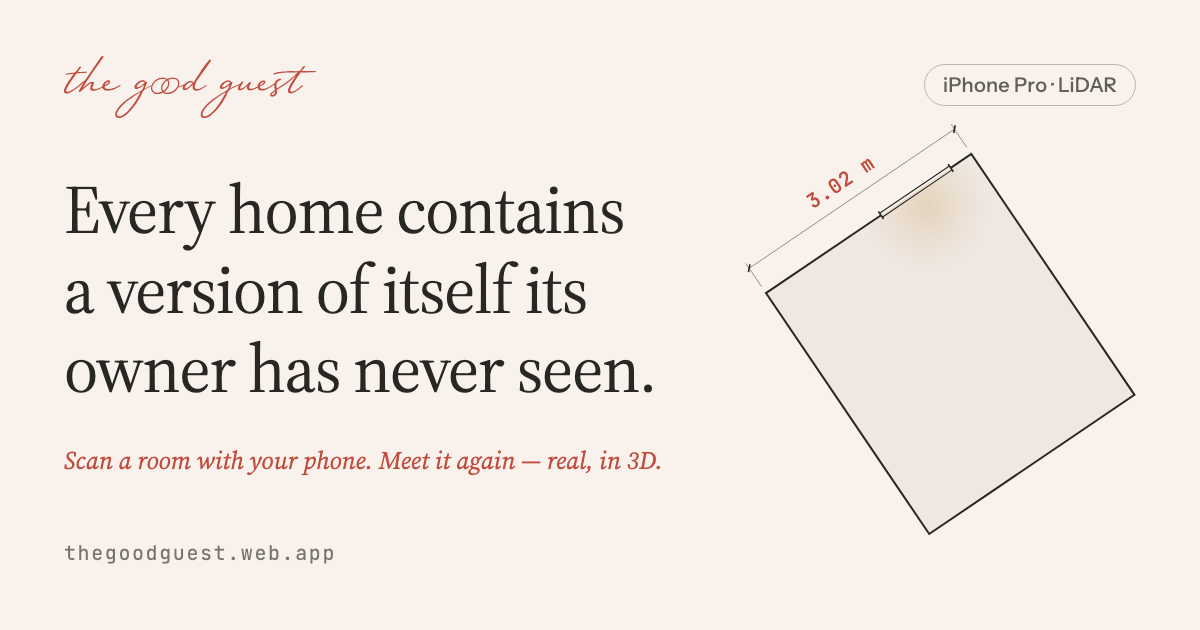
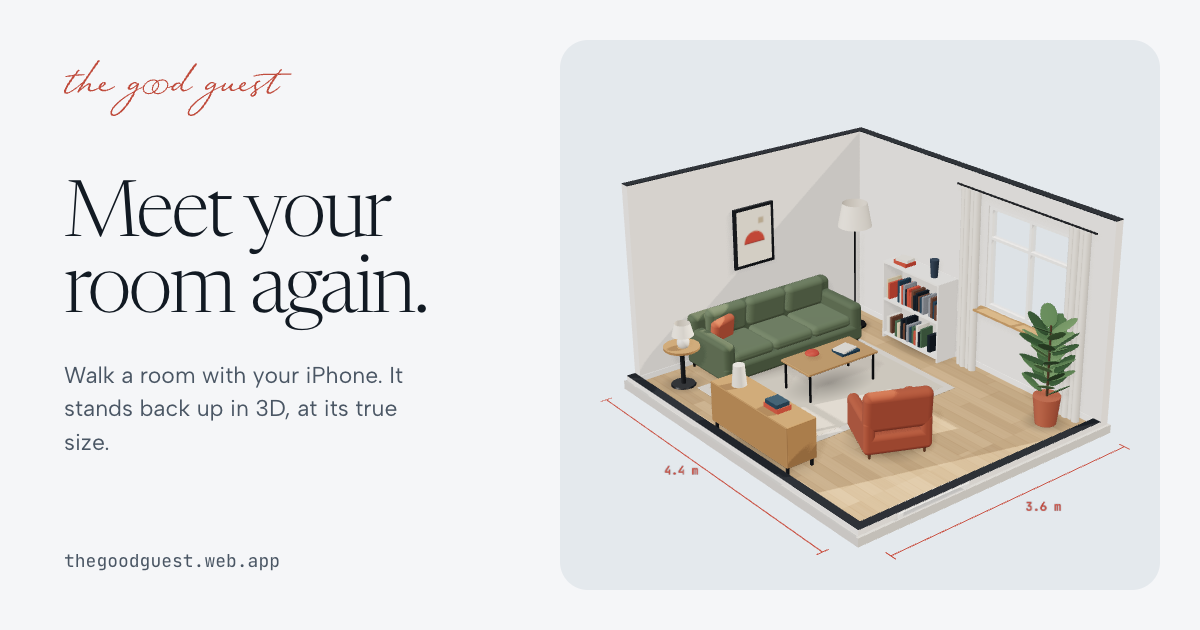
web: the share image is drawn by the site, around the landing's sample room
The link preview was still the cream card: "iPhone Pro · LiDAR" (the app
is for every iPhone) and "3.02 m" (sizes print to one decimal). It is now
drawn by /share-card with the landing's own sample room, wordmark and
faces, and exported from there by headless Chrome (the command is in the
page's header). The page is inert unless NEXT_PUBLIC_SHARE_CARD=1, as
/shell-finish is, so production shows the not-found page there.

docs/product/og-card.html stays untouched apart from its header, which now
says it is no longer the image's source: measure.test.ts reproduces its
hand-placed plan and test_gen_mark.py checks its wordmark.

diff --git a/web/src/app/share-card/page.tsx b/web/src/app/share-card/page.tsx
@@ -1,0 +1,70 @@
+"use client";
+
+/**
+ * The share image: web/public/og-card.png, the 1200×630 picture a link to
+ * the site unfurls into (decision 0361). The site draws it itself, with the
+ * landing's own sample room, wordmark and faces, so the picture people see
+ * before they arrive is the site they arrive at. It replaced the hand-drawn
+ * docs/product/og-card.html, which stays as the precedent the card
+ * geometry tests reproduce.
+ *
+ * What it may say: the landing's own claim, and the true hosting URL
+ * (lib/card/layout's DOMAIN — not the product name). The room is the sample,
+ * never a person's, and its sizes print to one decimal like every other
+ * measurement the product shows.
+ *
+ * Inert unless NEXT_PUBLIC_SHARE_CARD=1, like /shell-finish: a production
+ * build leaves it unset, and the page is then the ordinary not-found page.
+ *
+ * Re-export (exactly 1200×630), then rebuild without the flag:
+ *
+ *   NEXT_PUBLIC_SHARE_CARD=1 npm --prefix web run build
+ *   npx --yes serve web/out -l 3210        # clean URLs, as hosting serves them
+ *   "/Applications/Google Chrome.app/Contents/MacOS/Google Chrome" \
+ *     --headless=new --hide-scrollbars --enable-unsafe-swiftshader \
+ *     --window-size=1200,630 --force-device-scale-factor=1 \
+ *     --virtual-time-budget=15000 \
+ *     --screenshot=web/public/og-card.png http://localhost:3210/share-card
+ *
+ * Re-export triggers: a copy change on the landing, the identity changing,
+ * or the sample room changing.
+ */
+
+import NotFoundScreen from "@/components/NotFound";
+import SampleRoom from "@/components/SampleRoom";
+import { Wordmark } from "@/components/Wordmark";
+import { DOMAIN } from "@/lib/card/layout";
+
+export default function ShareCard() {
+  if (process.env.NEXT_PUBLIC_SHARE_CARD !== "1") return <NotFoundScreen />;
+
+  // Fixed over the site's own chrome, so a 1200×630 window holds the card
+  // and nothing else.
+  return (
+    <div className="fixed left-0 top-0 z-[100] grid h-[630px] w-[1200px] grid-cols-[560px_1fr] overflow-hidden bg-paper text-ink">
+      <div className="flex flex-col pb-14 pl-16 pt-[60px]">
+        {/* self-start: a stretched SVG would centre the name in the column. */}
+        <div className="self-start">
+          <Wordmark height="56px" />
+        </div>
+        <h1 className="mt-16 font-serif text-[78px] font-light leading-[0.98] tracking-[-0.035em]">
+          Meet your room again.
+        </h1>
+        <p className="mt-[26px] max-w-[25ch] text-[23px] leading-[1.45] text-ink-2">
+          Walk a room with your iPhone. It stands back up in 3D, at its true size.
+        </p>
+        <p className="mt-auto font-mono text-[18px] text-ink-2">{DOMAIN}</p>
+      </div>
+      <div className="relative my-10 mr-10 overflow-hidden rounded-[28px] bg-parchment">
+        <SampleRoom
+          label="A sample room rebuilt in 3D, cut away so you can see in, with its measured size"
+          view={0}
+          labels
+          fit={0.92}
+          interactive={false}
+          className="absolute inset-0"
+        />
+      </div>
+    </div>
+  );
+}

diff --git a/web/src/app/layout.tsx b/web/src/app/layout.tsx
@@ -31,9 +31,10 @@ export const metadata: Metadata = {
   title: BRAND_NAME,
   description:
     "Scan a room with your phone. Meet it again on your desk — real, in 3D, exactly as you live in it — with a guest who understands it.",
-  // Share card. The PNG is re-exported from docs/product/og-card.html
-  // whenever the identity moves. og/twitter title + description inherit
-  // the fields above.
+  // Share card. The PNG is drawn by the site itself and re-exported from
+  // app/share-card/page.tsx (its header has the command) whenever the
+  // landing's claim or the identity moves. og/twitter title + description
+  // inherit the fields above.
   metadataBase: new URL("https://thegoodguest.web.app"),
   openGraph: {
     type: "website",
@@ -43,7 +44,7 @@ export const metadata: Metadata = {
         url: "/og-card.png",
         width: 1200,
         height: 630,
-        alt: "Every home contains a version of itself its owner has never seen — beside the measured floor plan of a scanned room.",
+        alt: "Meet your room again. Walk a room with your iPhone and it stands back up in 3D, at its true size — beside a sample room, cut away so you can see in.",
       },
     ],
   },

diff --git a/docs/product/og-card.html b/docs/product/og-card.html
@@ -1,8 +1,13 @@
 <!DOCTYPE html>
 <!--
-  og-card.html — the source for web/public/og-card.png, the site-wide Open
-  Graph share image (1200×630). Read by a human re-exporting the card; no
-  build step consumes it.
+  og-card.html — the hand-drawn share image the site used until decision
+  0361. It is NO LONGER the source of web/public/og-card.png: the site now
+  draws that itself, at web/src/app/share-card/page.tsx, and the re-export
+  command below would overwrite it with the old cream card. Do not run it.
+
+  It stays because web/src/lib/card/measure.test.ts reproduces its hand-placed
+  #roomclip polygon, and tools/test_gen_mark.py checks its inline wordmark.
+  No build step consumes it.
 
   Provenance: drawn from the Good Guest tokens (web/src/app/globals.css) and
   real geometry.
